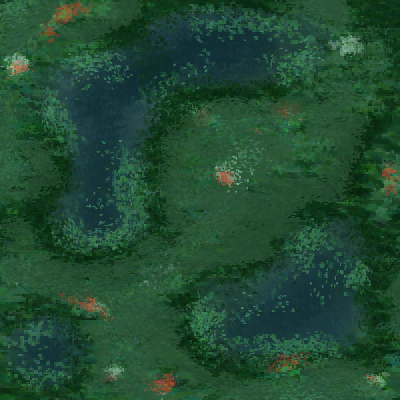
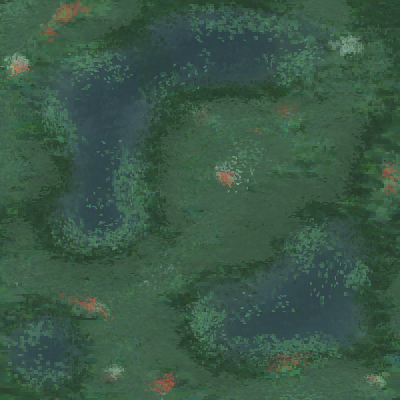
[POLISH] Added new backgrounds [FEAT] Added Mountain level

diff --git a/Assets/Scripts/LevelStates/MountainState.cs b/Assets/Scripts/LevelStates/MountainState.cs
@@ -1,7 +1,7 @@
 using System;
 using UnityEngine;
 
-public class BeachState : LevelState
+public class MountainState : LevelState
 {
     private float nextSpawnTime = 0f;
     private float spawnRate = 0.4f;
@@ -11,15 +11,16 @@ public class BeachState : LevelState
 
     public override void EnterState(LevelManager level)
     {
-        Debug.Log("Entered BeachState");
-        GameManager.Instance.level = 4;
-        GameManager.Instance.EnemyGoal = 40;
+        Debug.Log("Entered MountainState");
+        GameManager.Instance.level = 5;
+        GameManager.Instance.EnemyGoal = 1;
 
-        GameManager.Instance.currentBullet = "Bloom";
+        GameManager.Instance.currentBullet = "Wave";
 
         //TextAsset jsonFile = Resources.Load<TextAsset>("Convos/cave");
         //DialogueManager.Instance.StartConversation(jsonFile);
 
+        
     }
 
 
@@ -31,7 +32,7 @@ public class BeachState : LevelState
         }
         if (GameManager.Instance.EnemyGoal <= 0)
         {
-            level.ChangeState(level.MountainState);
+            //level.ChangeState(level.ForestState); //add victory later
         }
         else
         {
@@ -40,8 +41,17 @@ public class BeachState : LevelState
         }
     }
 
+    private bool spawnedBoss = false;
     private void SpawnBehavior()
     {
+        //spawn boss
+        if (!spawnedBoss)
+        {
+            spawnedBoss = true;
+            EnemySpawner.Instance.SpawnShark();
+
+        }
+        /*
         if (Time.time >= nextSpawnTime)
         {
             switch((int)Time.time%4)
@@ -58,12 +68,12 @@ public class BeachState : LevelState
                     EnemySpawner.Instance.SpawnSpitter();
                     break;
             }
-
+        
             
             
 
             nextSpawnTime = Time.time + spawnRate;
-        }
+        }*/
     }
     private void CollectibleBehavior()
     {
@@ -90,6 +100,6 @@ public class BeachState : LevelState
     }
     public override void ExitState(LevelManager level) { }
 
-    public override string GetLevelName() => "Beach";
+    public override string GetLevelName() => "Mountain";
 }
 

diff --git a/Assets/Scripts/Scroller.cs b/Assets/Scripts/Scroller.cs
@@ -17,6 +17,8 @@ public class Scroller : MonoBehaviour
     public Texture Clearing;
     public Texture Lake;
     public Texture Beach;
+    public Texture Mountain;
+
 
     void Update()
     {
@@ -62,6 +64,10 @@ public class Scroller : MonoBehaviour
 
             case "Beach":
                 nextTex = Beach;
+                break;
+
+            case "Mountain":
+                nextTex = Mountain;
                 break;
         }
         bool skipFadeOut = (data.ToString() == "Clearing"); //skip fade out if starter level

diff --git a/Assets/Scripts/Bullets/WaveBullet.cs b/Assets/Scripts/Bullets/WaveBullet.cs
@@ -21,6 +21,11 @@ public class WaveBullet : MonoBehaviour
             {
                 float velocity = Mathf.Sin((Time.time+i) * 10) * 4f;
 
+                if (rbList[i] == null)
+                {
+                    rbList.Clear();
+                    Destroy(gameObject);
+                }
                 rbList[i].AddForce(new Vector2(velocity, 0));
             }
         }

diff --git a/Assets/Scripts/LevelStates/LevelManager.cs b/Assets/Scripts/LevelStates/LevelManager.cs
@@ -9,6 +9,7 @@ public class LevelManager : MonoBehaviour
     public ClearingState ClearingState = new ClearingState();
     public LakeState LakeState = new LakeState();
     public BeachState BeachState = new BeachState();
+    public MountainState MountainState = new MountainState();
 
     private void Start()
     {

diff --git a/Assets/Scripts/GameManager.cs b/Assets/Scripts/GameManager.cs
@@ -85,6 +85,7 @@ public class GameManager : MonoBehaviour
 
     private void Start()
     {
+        //Application.targetFrameRate = 60;
         exitAction = InputSystem.actions.FindAction("Exit");
         if (SceneManager.GetActiveScene().name == "MainGame")
         {
